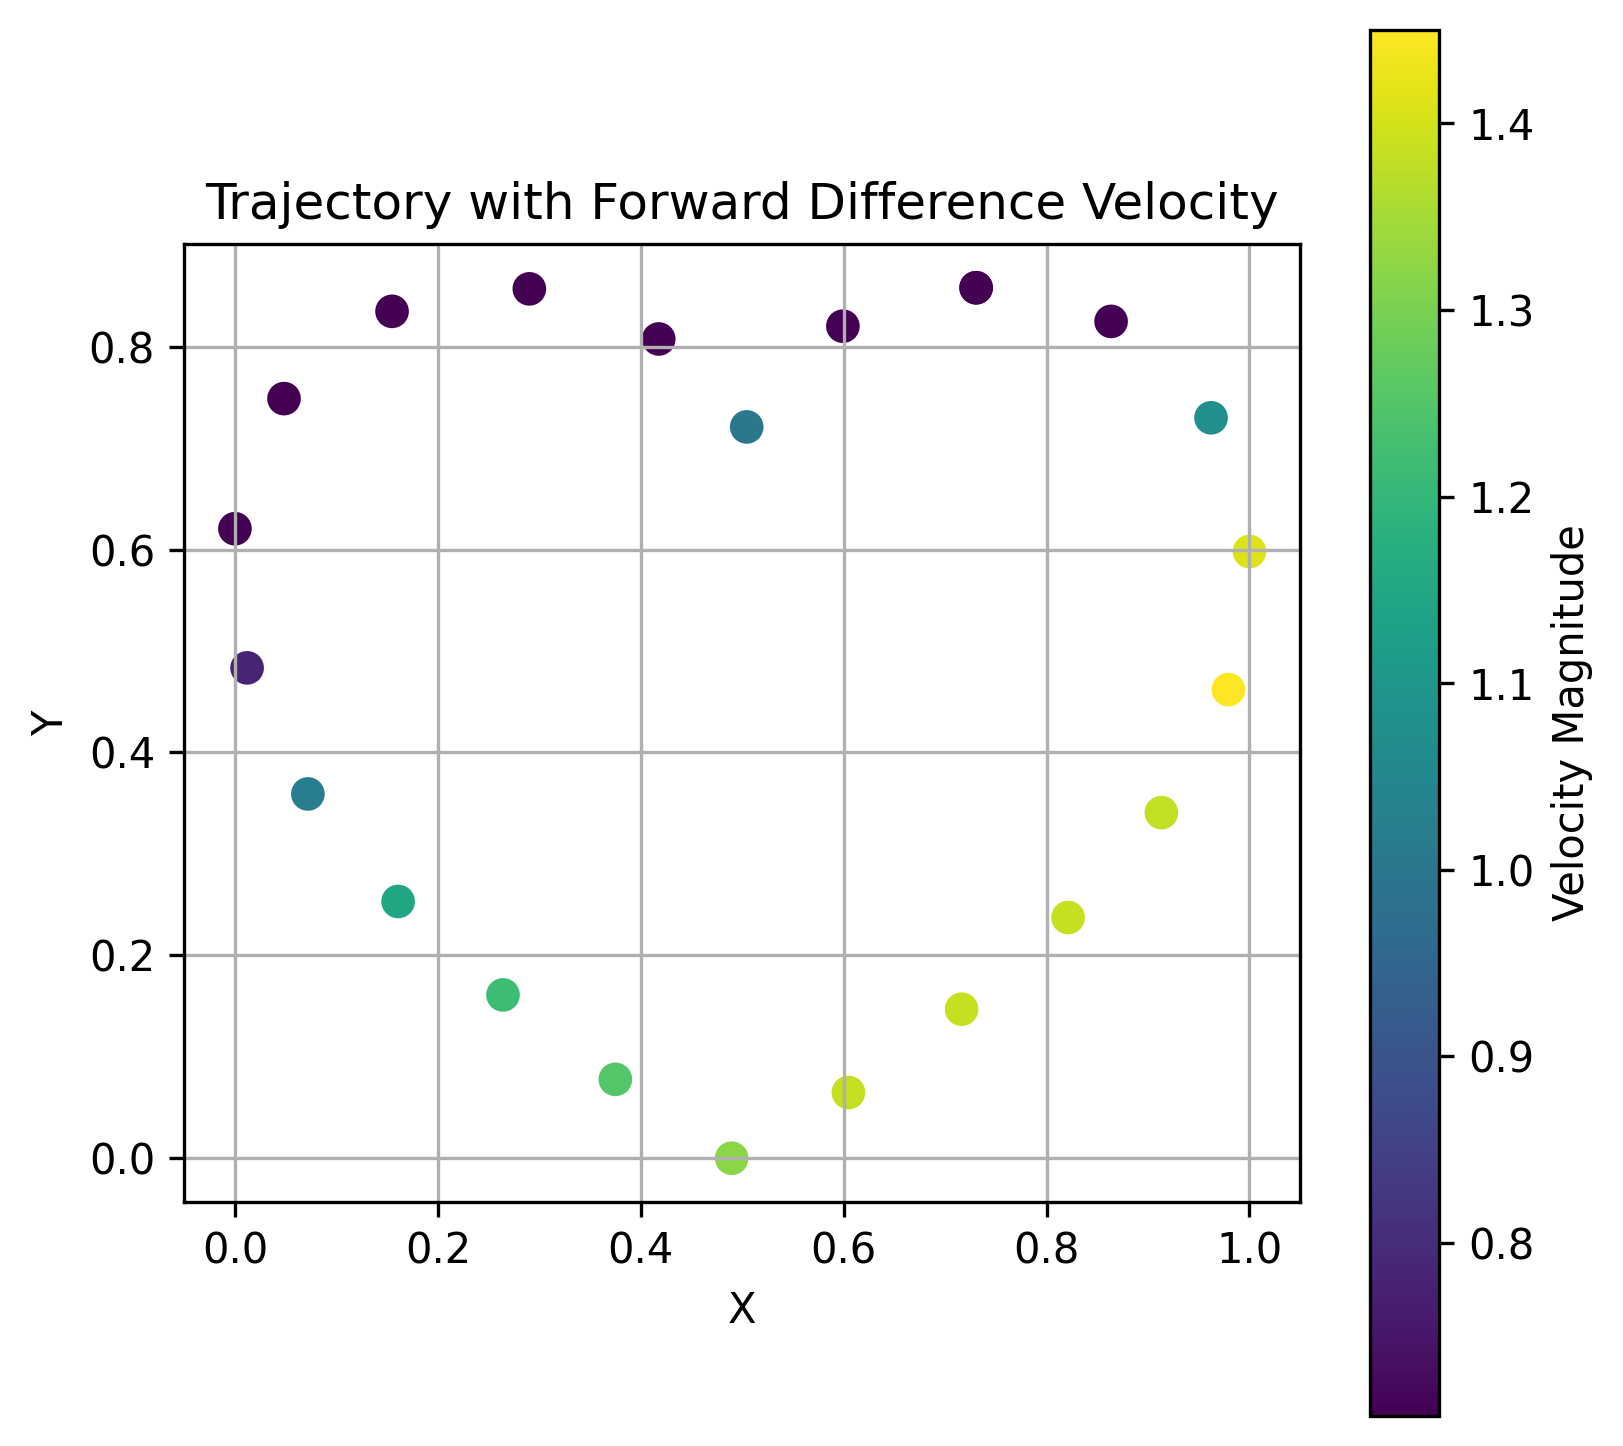
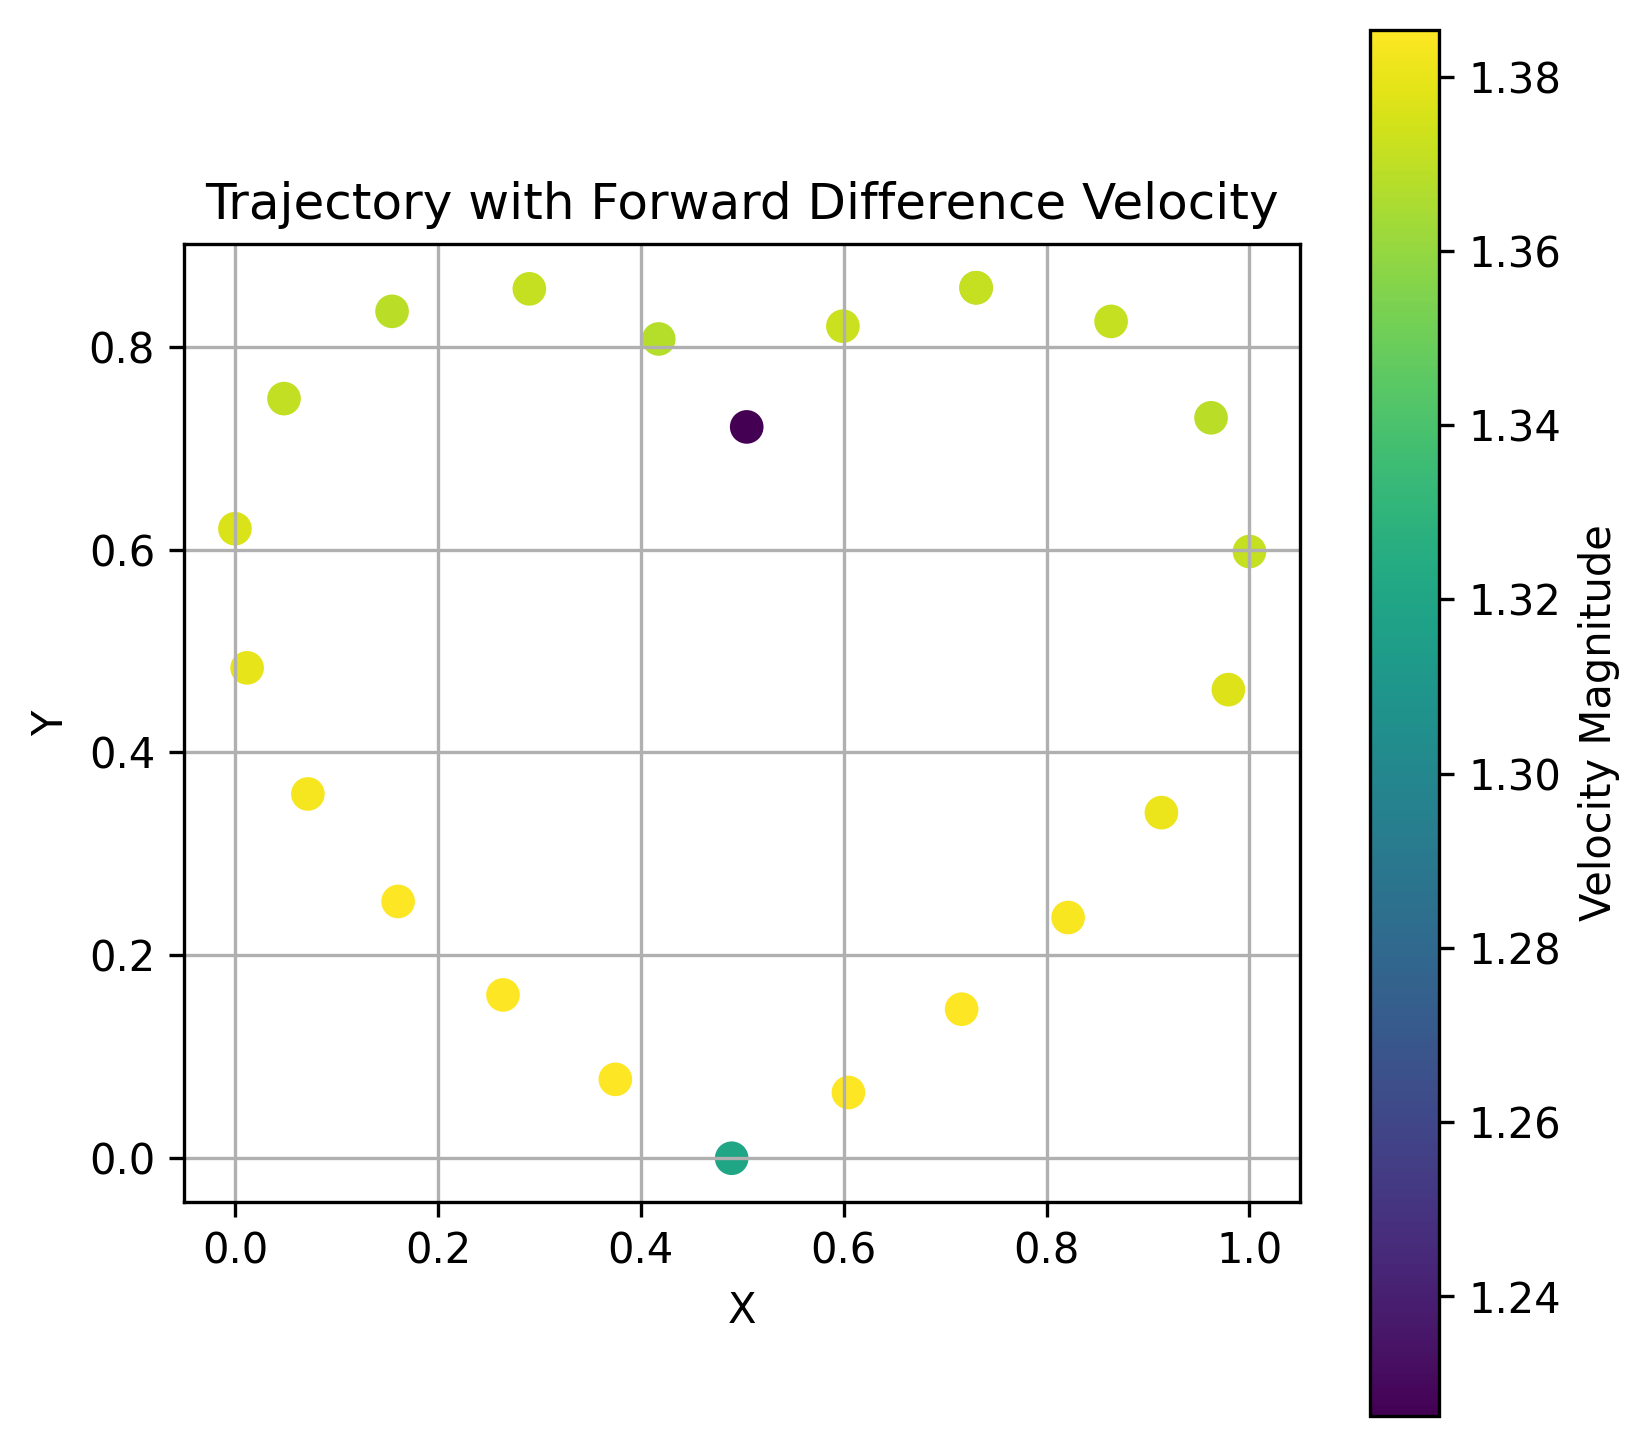
took off clamping from FD, weird effects

diff --git a/trajectory_generators/csv_intake.py b/trajectory_generators/csv_intake.py
@@ -57,8 +57,8 @@ def generate_velocity_FD(x_points, y_points, dt):
     vy = []
     for i in range(len(x_points)-1):
 
-        vx.append(np.clip((x_points[i + 1] - x_points[i]) / dt, 0.5, 2.0))
-        vy.append(np.clip((y_points[i + 1] - y_points[i]) / dt, 0.5, 2.0))
+        vx.append((x_points[i + 1] - x_points[i]) / dt)
+        vy.append((y_points[i + 1] - y_points[i]) / dt)
 
     vx.append(vx[-1])
     vy.append(vy[-1])
